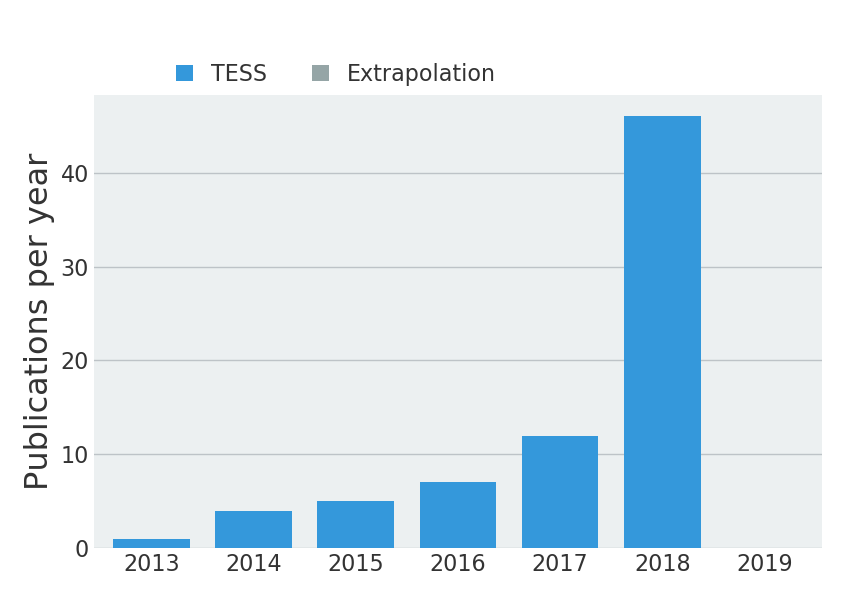
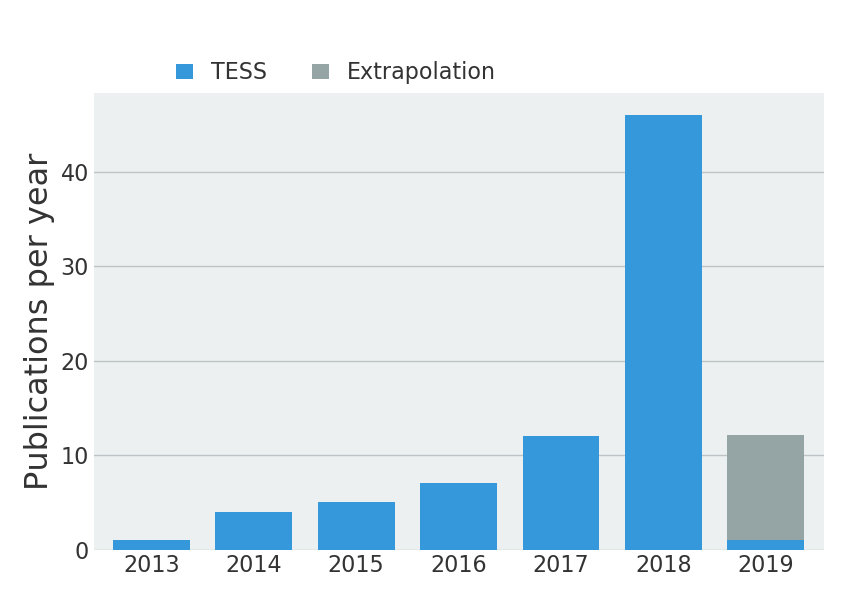
Publication stats update

diff --git a/content/pages/tpub/publications.md b/content/pages/tpub/publications.md
@@ -12,8 +12,8 @@ the TESS mission is provided by the NASA Explorer Program.*
 
 The TESS Science Support Center curates a list of scientific publications
 pertaining to TESS.
-The database contains 75 publications,
-of which 40 are peer-reviewed.
+The database contains 76 publications,
+of which 41 are peer-reviewed.
 It demonstrates the important impact of TESS data
 on astronomical research.
 
@@ -29,7 +29,7 @@ Or seach by topic:
 If you spot an error in the database, such as a missing entry,
 please get in touch or open an issue in the <a href="https://github.com/tessgi/tpub">GitHub repository</a> of the database.
 
-Last update: 15 Jan 2019.
+Last update: 30 Jan 2019.
 
 <hr/>
 
@@ -46,7 +46,7 @@ of year.
 
 Both TESS data have been used for scientific applications
 that reach far beyond exoplanet research.
-While 44 works relate to exoplanets
+While 45 works relate to exoplanets
 (59%),
 a total of 31
 pertain to other areas of astrophysics
@@ -95,19 +95,19 @@ Ricker, G. R.
 [2014JAVSO..42..234R](http://adsabs.harvard.edu/abs/2014JAVSO..42..234R)
 <span class="badge">26 citations</span>
 
-7. THE K2-TESS STELLAR PROPERTIES CATALOG  
+7. ASTEROSEISMOLOGY OF RED GIANTS: FROM ANALYSING LIGHT CURVES TO ESTIMATING AGES  
+Davies, G. R., Miglio, A.    
+[2016AN....337..774D](http://adsabs.harvard.edu/abs/2016AN....337..774D)
+<span class="badge">20 citations</span>
+
+8. THE K2-TESS STELLAR PROPERTIES CATALOG  
 Stassun, Keivan G., Pepper, Joshua A., Oelkers, Ryan, et al.    
 [2014arXiv1410.6379S](http://adsabs.harvard.edu/abs/2014arXiv1410.6379S)
 <span class="badge">20 citations</span>
 
-8. PLANET DETECTION SIMULATIONS FOR SEVERAL POSSIBLE TESS EXTENDED MISSIONS  
+9. PLANET DETECTION SIMULATIONS FOR SEVERAL POSSIBLE TESS EXTENDED MISSIONS  
 Bouma, L. G., Winn, Joshua N., Kosiarek, Jacobi, et al.    
 [2017arXiv170508891B](http://adsabs.harvard.edu/abs/2017arXiv170508891B)
-<span class="badge">20 citations</span>
-
-9. ASTEROSEISMOLOGY OF RED GIANTS: FROM ANALYSING LIGHT CURVES TO ESTIMATING AGES  
-Davies, G. R., Miglio, A.    
-[2016AN....337..774D](http://adsabs.harvard.edu/abs/2016AN....337..774D)
 <span class="badge">20 citations</span>
 
 10. THE TESS-HERMES SURVEY DATA RELEASE 1: HIGH-RESOLUTION SPECTROSCOPY OF THE TESS SOUTHERN CONTINUOUS VIEWING ZONE  

diff --git a/content/pages/tpub/tpub-exoplanets-by-month.md b/content/pages/tpub/tpub-exoplanets-by-month.md
@@ -4,6 +4,14 @@ Save_as: tpub-exoplanets-by-month.html
 [TOC]
 
 
+2019-01
+-------
+
+1. [PRECOVERY OF TRANSITING EXOPLANET SURVEY SATELLITE SINGLE TRANSITS WITH KILODEGREE EXTREMELY LITTLE TELESCOPE](http://adsabs.harvard.edu/abs/2019AJ....157...37Y)  
+Yao, Xinyu, Pepper, Joshua, Gaudi, B. Scott, et al.    
+2019, refereed ([2019AJ....157...37Y](http://adsabs.harvard.edu/abs/2019AJ....157...37Y))  
+
+
 2018-12
 -------
 

diff --git a/content/pages/tpub/tpub-by-month.md b/content/pages/tpub/tpub-by-month.md
@@ -4,6 +4,14 @@ Save_as: tpub-by-month.html
 [TOC]
 
 
+2019-01
+-------
+
+1. [PRECOVERY OF TRANSITING EXOPLANET SURVEY SATELLITE SINGLE TRANSITS WITH KILODEGREE EXTREMELY LITTLE TELESCOPE](http://adsabs.harvard.edu/abs/2019AJ....157...37Y)  
+Yao, Xinyu, Pepper, Joshua, Gaudi, B. Scott, et al.    
+2019, refereed ([2019AJ....157...37Y](http://adsabs.harvard.edu/abs/2019AJ....157...37Y))  
+
+
 2018-12
 -------
 

diff --git a/content/pages/tpub/tpub-exoplanets.md b/content/pages/tpub/tpub-exoplanets.md
@@ -4,6 +4,14 @@ Save_as: tpub-exoplanets.html
 [TOC]
 
 
+2019
+----
+
+1. [PRECOVERY OF TRANSITING EXOPLANET SURVEY SATELLITE SINGLE TRANSITS WITH KILODEGREE EXTREMELY LITTLE TELESCOPE](http://adsabs.harvard.edu/abs/2019AJ....157...37Y)  
+Yao, Xinyu, Pepper, Joshua, Gaudi, B. Scott, et al.    
+2019, refereed ([2019AJ....157...37Y](http://adsabs.harvard.edu/abs/2019AJ....157...37Y))  
+
+
 2018
 ----
 

diff --git a/content/pages/tpub/tpub.md b/content/pages/tpub/tpub.md
@@ -4,6 +4,14 @@ Save_as: tpub.html
 [TOC]
 
 
+2019
+----
+
+1. [PRECOVERY OF TRANSITING EXOPLANET SURVEY SATELLITE SINGLE TRANSITS WITH KILODEGREE EXTREMELY LITTLE TELESCOPE](http://adsabs.harvard.edu/abs/2019AJ....157...37Y)  
+Yao, Xinyu, Pepper, Joshua, Gaudi, B. Scott, et al.    
+2019, refereed ([2019AJ....157...37Y](http://adsabs.harvard.edu/abs/2019AJ....157...37Y))  
+
+
 2018
 ----
 
